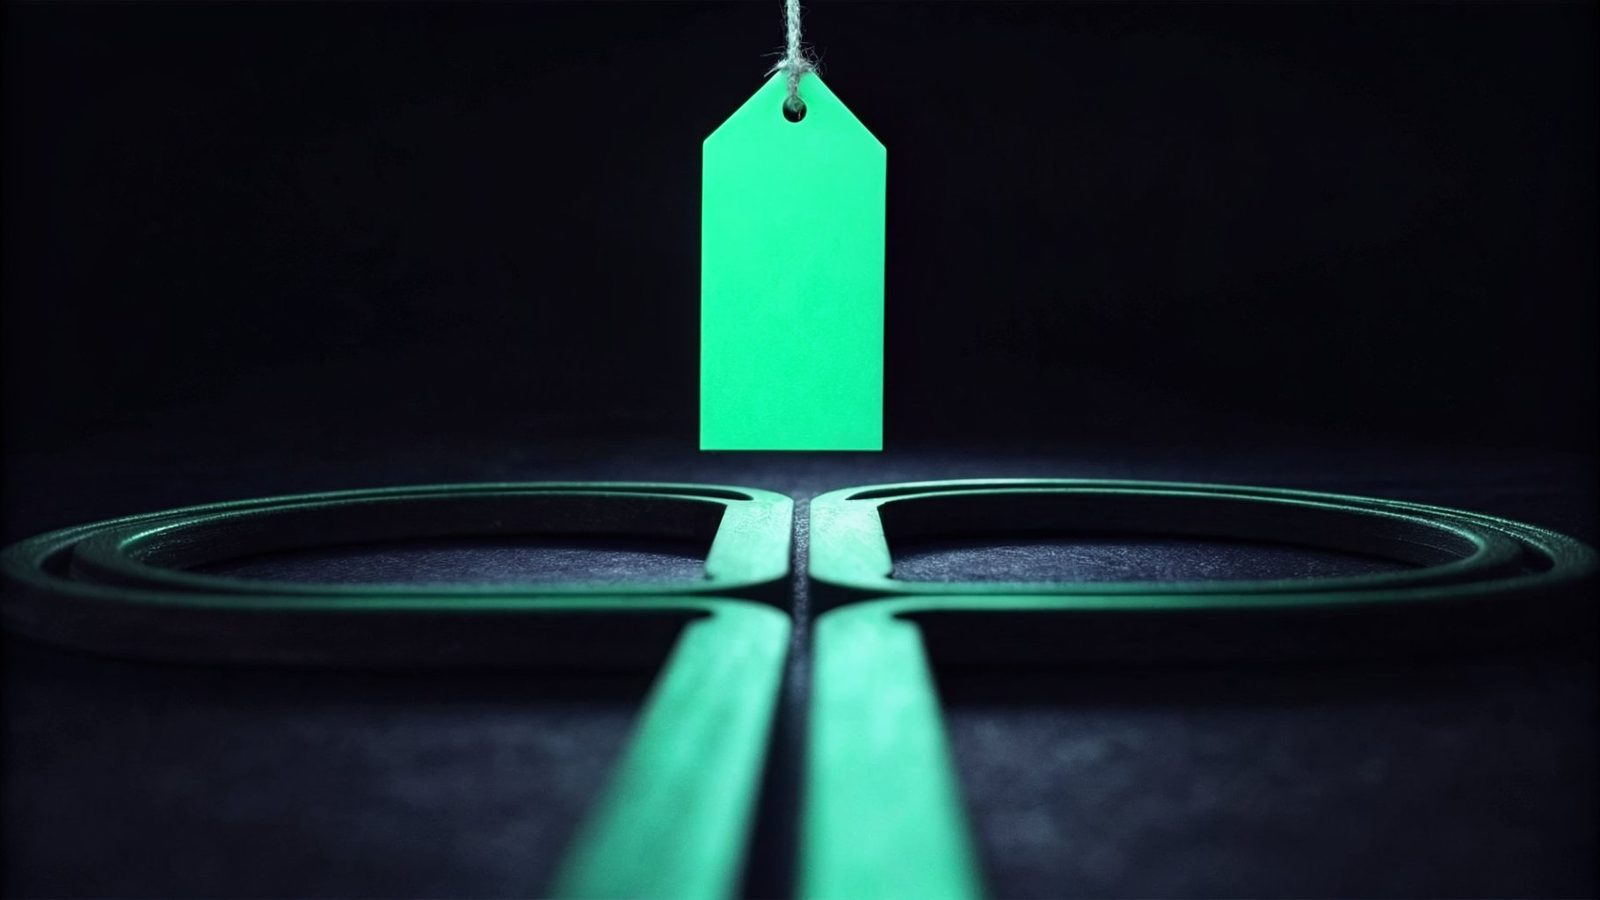
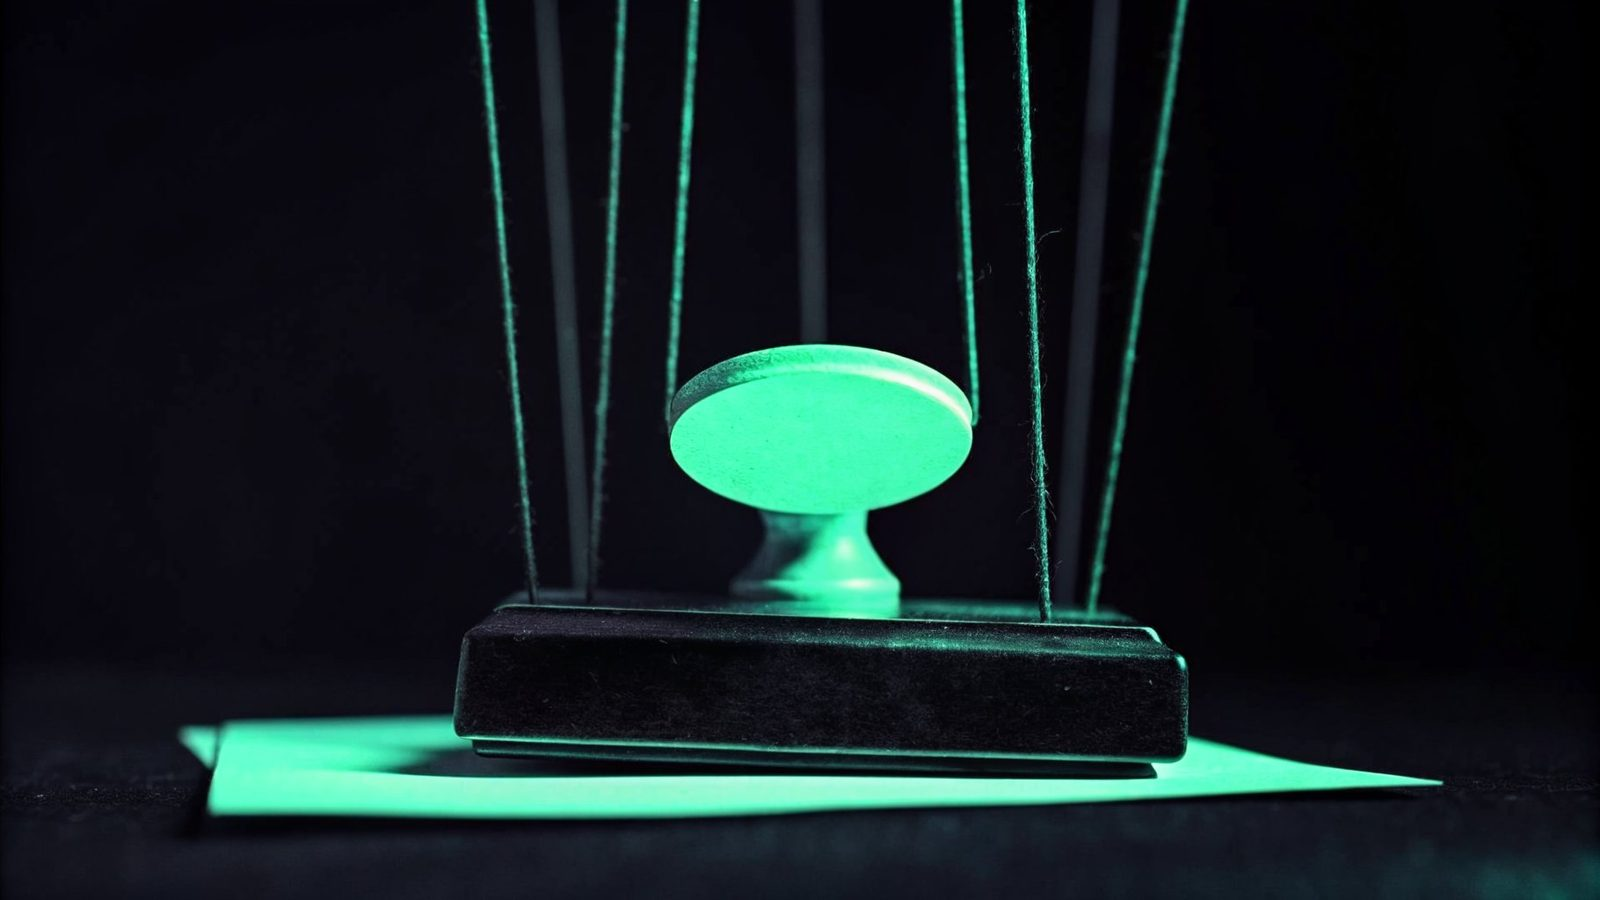
docs(blog): use the stamp-on-strings hero for "Who made the call?" (#86)
Replaces the fork-in-the-path image with a verification stamp held up by
marionette strings (whocall-strings-a), which carries the post's question
of who is really guiding the sign-off. Keeps the same filename, updates
the alt text, and trims gen_images.py to the slot that shipped.

diff --git a/blog/who-made-the-call.html b/blog/who-made-the-call.html
@@ -82,7 +82,7 @@
     <a class="post-back" href="/blog/">← all posts</a>
     <h1>Who made the call?</h1>
     <p class="post-meta">By <a href="https://github.com/welovejeff" rel="author">Jeff MacDonald</a> · October 2026 · research notes</p>
-    <img class="post-hero" src="/docs/media/thumbs/post-who-made-the-call.jpg" alt="A glowing green tag hanging over a path that splits in two, marking the choice made at the fork" width="1600" height="900" />
+    <img class="post-hero" src="/docs/media/thumbs/post-who-made-the-call.jpg" alt="A glowing green verification stamp held up by marionette strings above a sheet of paper, as if something else is guiding the hand that signs" width="1600" height="900" />
 
     <p>Tamper Signal's yellow light has a five-word job: <strong>a human should look.</strong> When I wrote that line, I assumed the human who looks brings their own judgment. A new Anthropic study tested that assumption with fifty experts and a coin flip. I haven't stopped thinking about it.</p>
 

diff --git a/scripts/gen_images.py b/scripts/gen_images.py
@@ -82,13 +82,12 @@ SLOTS = {
                "by a glowing emerald-green wax seal as if a quiet watcher caught "
                "it and paused it for review; generous negative space, the seal "
                "the only saturated glowing element.",
-    "whocall": "A single matte charcoal 3D path seen from slightly above that "
-               "splits into two branches like a fork in the road; exactly at "
-               "the split stands a small matte charcoal signpost with a paper "
-               "receipt tag hanging from it, sealed with a glowing emerald-green "
-               "wax dot, as if the choice made at this fork has been signed and "
-               "recorded; generous negative space, the seal the only saturated "
-               "glowing element.",
+    "whocall-strings": "A single matte charcoal 3D rubber stamp suspended in "
+                       "mid-air by thin taut marionette strings rising out of "
+                       "frame above it, hovering just over a blank paper receipt "
+                       "on the surface below; the stamp's face glows emerald "
+                       "green, about to press its seal, as if something above is "
+                       "guiding the hand that signs.",
 }
 
 SIZE = {"width": 1280, "height": 800}  # 16:10, matches the card thumb aspect
